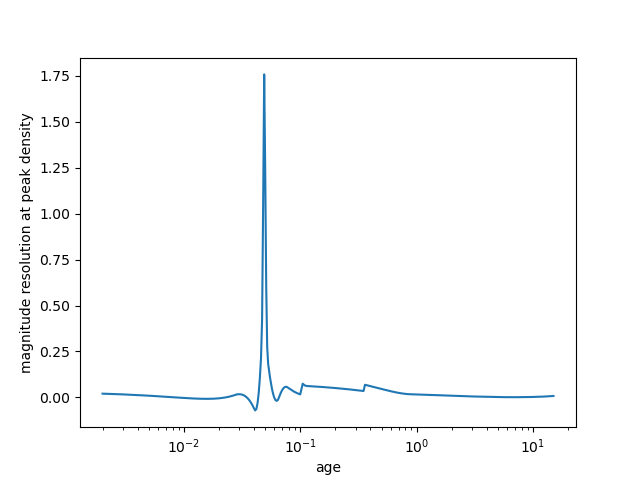
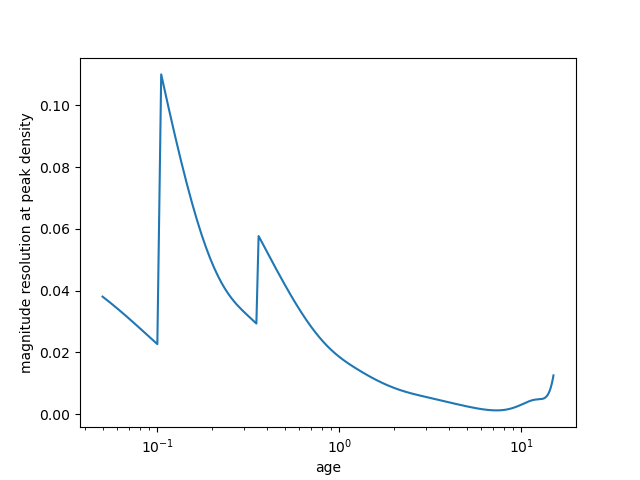
scripted up to find the set of pwdlfs that meet the minimum resolution requirement

diff --git a/find_pwdlf_resolution.py b/find_pwdlf_resolution.py
@@ -7,7 +7,7 @@ from scipy import interpolate
 
 
 data = []
-age_list_1 = np.arange(0.001, 0.100, 0.001)
+age_list_1 = np.arange(0.049, 0.100, 0.001)
 age_list_2 = np.arange(0.100, 0.350, 0.005)
 age_list_3 = np.arange(0.35, 15.01, 0.01)
 age_list_3dp = np.concatenate((age_list_1, age_list_2))
@@ -46,7 +46,7 @@ for i, d in enumerate(data):
 
 
 mag_resolution_itp = interpolate.UnivariateSpline(
-    age, mag_at_peak_density, s=len(age) / 100
+    age, mag_at_peak_density, s=len(age) / 150, k=5
 )
 
 
@@ -79,7 +79,10 @@ plt.savefig("age_peak_density_resolution.png")
 
 bin_02 = []
 bin_02_idx = []
+# to group the constituent pwdlfs into the optimal set of pwdlfs
+bin_02_pwdlf = np.zeros_like(age[1:]).astype('int')
 j = 0
+bin_number = 0
 stop = False
 for i, a in enumerate(age):
     if i < j:
@@ -93,25 +96,26 @@ for i, a in enumerate(age):
         print(j, end + tmp - start)
         if end + tmp - start < 0.0849257:
             end = end + tmp
+            bin_02_pwdlf[j] = bin_number
             j += 1
             if j >= len(age) - 1:
                 carry_on = False
                 stop = True
         else:
             carry_on = False
+            bin_number += 1
     if stop:
         break
     bin_02.append(end)
     bin_02_idx.append(i)
 
-print(bin_02)
-print(bin_02_idx)
-print(age[bin_02_idx])
-
 
 bin_05 = []
 bin_05_idx = []
+# to group the constituent pwdlfs into the optimal set of pwdlfs
+bin_05_pwdlf = np.zeros_like(age[1:]).astype('int')
 j = 0
+bin_number = 0
 stop = False
 for i, a in enumerate(age):
     if i < j:
@@ -124,28 +128,32 @@ for i, a in enumerate(age):
         tmp = mag_resolution_itp(age[j+1]) - mag_resolution_itp(age[j])
         if end + tmp - start < 0.2123142:
             end = end + tmp
+            bin_05_pwdlf[j] = bin_number
             j += 1
             if j >= len(age) - 1:
                 carry_on = False
                 stop = True
         else:
             carry_on = False
+            bin_number += 1
     if stop:
         break
     bin_05.append(end)
     bin_05_idx.append(i)
 
-print(bin_05)
-print(bin_05_idx)
-print(age[bin_05_idx])
 
 resolution_02 = np.array(bin_02[1:]) - np.array(bin_02[:-1])
 resolution_05 = np.array(bin_05[1:]) - np.array(bin_05[:-1])
 
 plt.figure(3)
-plt.scatter(bin_02[:-1], resolution_02, label='0.2 mag bin', s=5)
-plt.scatter(bin_05[:-1], resolution_05, label='0.5 mag bin', s=5)
+plt.scatter(bin_02[:-1], resolution_02, label='0.0849257 mag bin', s=5)
+plt.scatter(bin_05[:-1], resolution_05, label='0.2123142 mag bin', s=5)
+plt.legend()
 plt.ylabel('magnitude resolution')
 plt.xlabel('magnitude')
 plt.savefig('magnitude_resoltuion.png')
 
+
+# save the pdwdlf mapping
+np.save('pwdlf_bin_02_mapping.npy', bin_02_pwdlf)
+np.save('pwdlf_bin_05_mapping.npy', bin_05_pwdlf)
